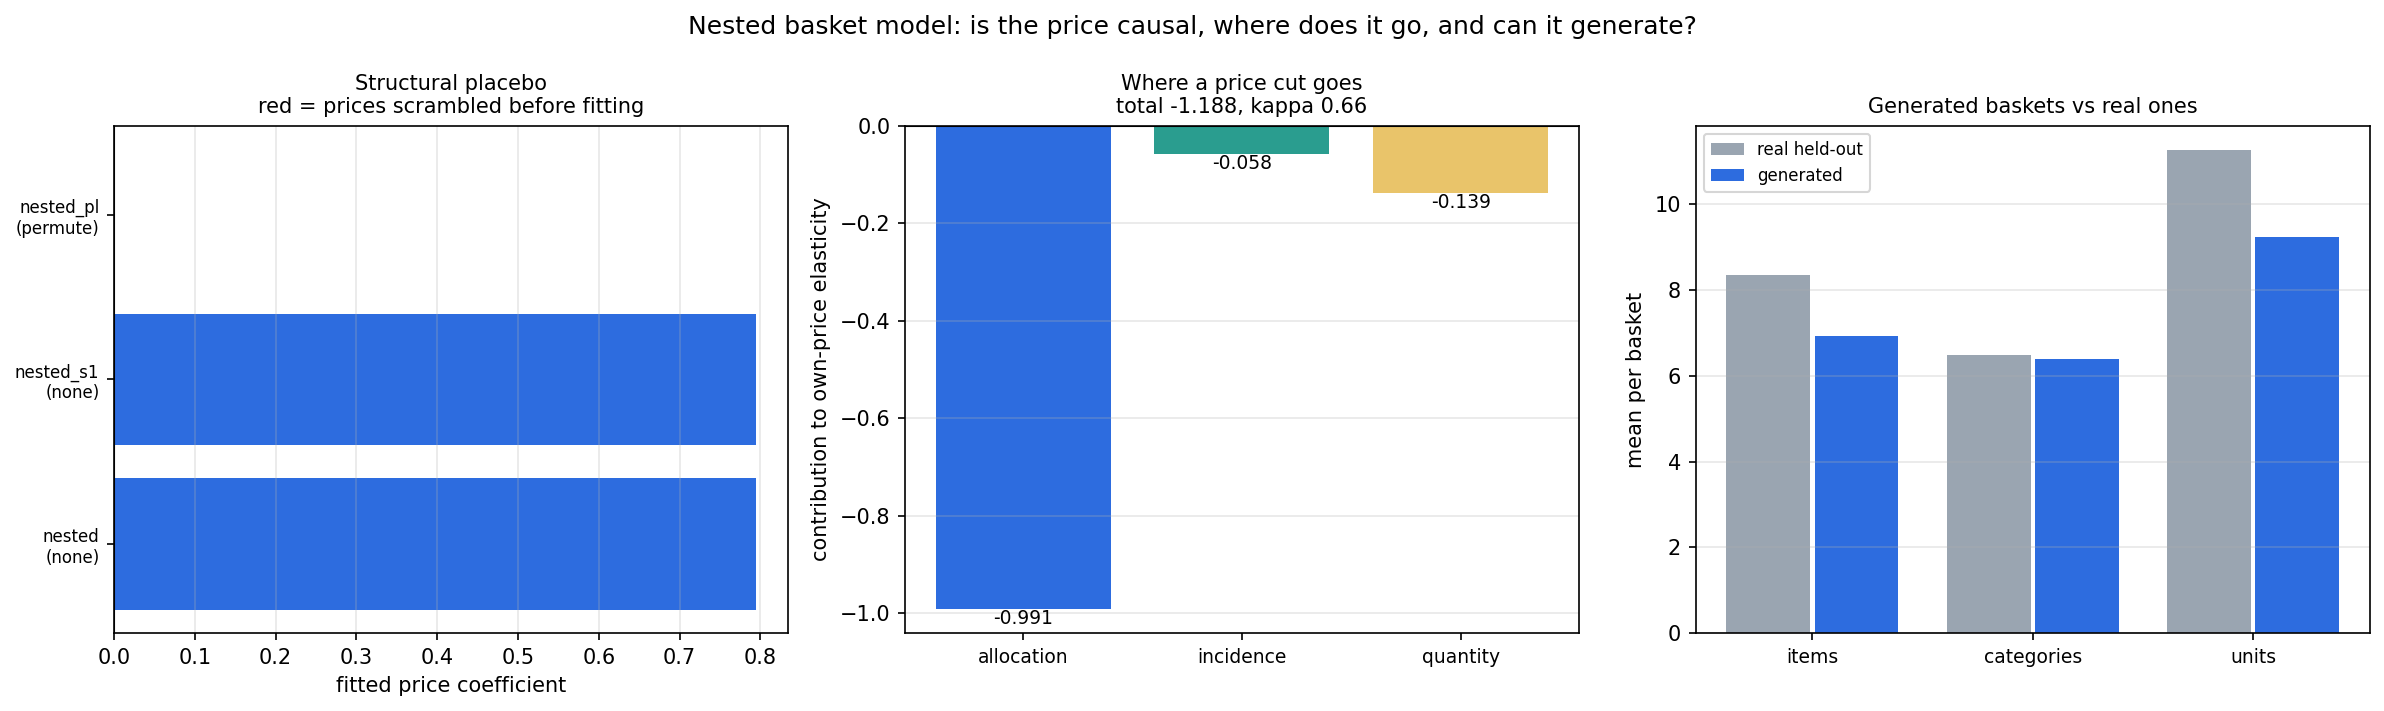
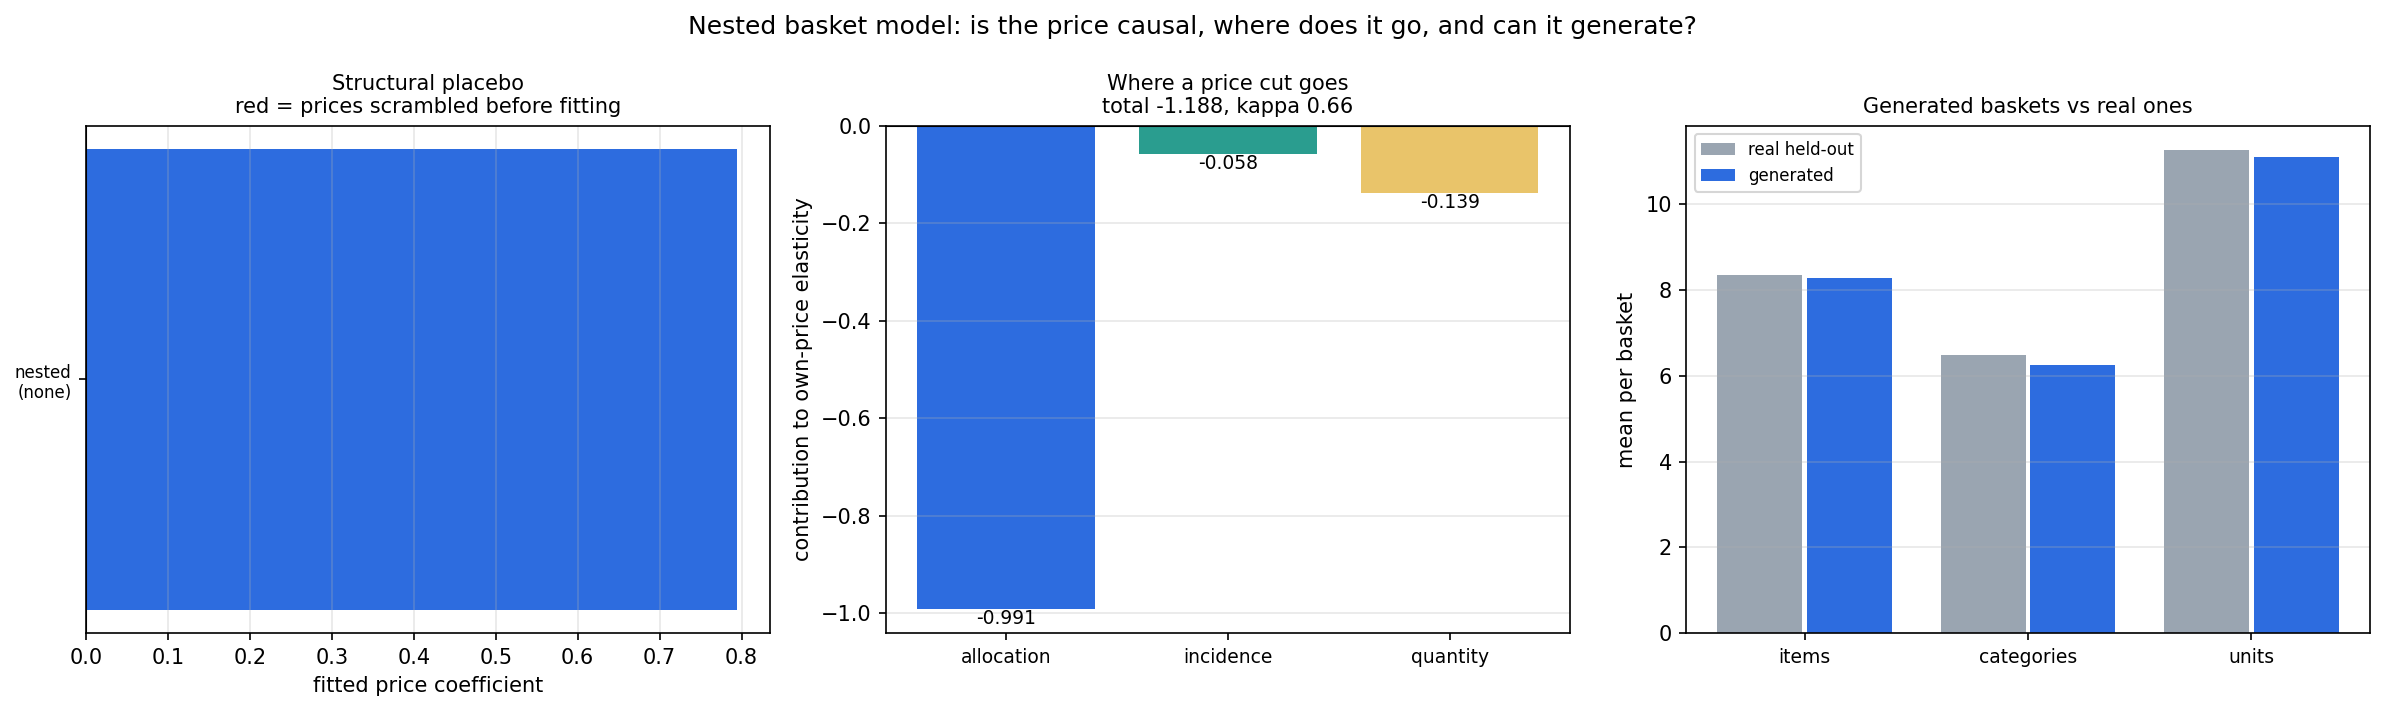
Add a breadth head: the generation gap was a missing component, not a bug
Generated baskets had the right number of categories (6.39 against a real 6.49)
and too few items (6.94 against 8.36).  Dividing one by the other localises it
exactly: 1.086 distinct items per purchased category against a real 1.284.

The cause is different in kind from the four sampling bugs before it.  The
incidence head only ever sees 0/1 -- "was this category bought?" -- so nothing in
the model knew how many distinct items a category purchase contains.  Recovering
a count from P(buy) via lambda = -log(1-p) reproduces the probability correctly
but implies E[items | bought] of 1.010 at P=0.02, 1.054 at P=0.10, 1.116 at
P=0.20.  It can only ever produce ~1.0-1.1, and it produced 1.086.  The generator
was right; the quantity was absent from the likelihood, and no sampler fix could
have closed it.

A fourth head now models it: distinct items - 1 ~ Poisson per category, with a
household term (bigger shoppers buy wider) and a price term (promotions widen
baskets).  Generation makes two draws instead of deriving one from the other --
Bernoulli for whether, Poisson for how many.

Generation now clears the criterion on every dimension:

               real   generated   error
  items        8.36     8.27      -1.1%
  units       11.27    11.11      -1.4%
  categories   6.49     6.25      -3.7%

with the internal ratios holding too: 1.323 items per purchased category against
1.288, and 1.343 units per item against 1.348.
[…]

diff --git a/scripts/27_nested_basket.py b/scripts/27_nested_basket.py
@@ -191,12 +191,14 @@ class NestedData:
 class NestedModel(nn.Module):
     def __init__(self, d: NestedData, K=64, Kp=8, Kt=8, Ks=4, n_weeks=52, seed=0,
                  use_nest=True, use_quantity=True, use_store=True,
-                 use_store_price=True, avail_only=False, use_state=True):
+                 use_store_price=True, avail_only=False, use_state=True,
+                 use_breadth=True):
         super().__init__()
         g = torch.Generator().manual_seed(seed)
         J, N, C = d.J, d.N, d.C
         self.K, self.Kp, self.d = K, Kp, d
         self.use_nest, self.use_quantity, self.use_store = use_nest, use_quantity, use_store
+        self.use_breadth = use_breadth
 
         def emb(n, k, sd=0.05):
             return nn.Parameter(torch.randn(n, k, generator=g) * sd)
@@ -224,6 +226,18 @@ class NestedModel(nn.Module):
             self.q_state = emb(J, N_STATE_FEATURES, 0.01)
 
         # --- incidence head: per category, with the nesting coefficient on IV
+        # Breadth: given the category is bought, how many *distinct* items?  The
+        # incidence head only ever sees 0/1, so nothing in the model knows this.
+        # Recovering a Poisson rate from P(buy) via -log(1-p) reproduces the
+        # probability but implies E[picks | bought] of about 1.01-1.10 for realistic
+        # incidence rates -- against a real 1.284.  That gap is the whole generation
+        # shortfall, and no amount of sampler fixing closes it: the quantity is simply
+        # not in the likelihood.  breadth - 1 ~ Poisson, per category, with household
+        # and price terms because a big shopper and a promotion both widen a basket.
+        if use_breadth:
+            self.b0 = nn.Parameter(torch.zeros(C))
+            self.b_user = nn.Parameter(torch.zeros(N))
+            self.b_price = nn.Parameter(torch.zeros(C))
         if use_nest:
             self.register_buffer("iv_ref", torch.zeros(C))
             self.register_buffer("iv_ref_set", torch.zeros(1))
@@ -334,12 +348,16 @@ def incidence_batch(d, model, split, bidx, n_cat, rng, device, iv_cap=32):
     # Uniform sampling removes both at the source and needs no correction at all.
     # The cost is more categories per trip to see enough positives, hence the higher
     # n_cat default for this sampler.
-    cats, ys, trip, off = [], [], [], []
+    cats, ys, trip, off, brd = [], [], [], [], []
     for ti, i in enumerate(bidx):
-        s = set(sp["cat"][sp["starts"][i]:sp["ends"][i]].tolist())
+        rows_i = sp["cat"][sp["starts"][i]:sp["ends"][i]]
+        cnt = {}
+        for c in rows_i.tolist():
+            cnt[c] = cnt.get(c, 0) + 1
         for c in rng.integers(0, d.C, size=n_cat).tolist():
-            cats.append(c); ys.append(1.0 if c in s else 0.0)
+            cats.append(c); ys.append(1.0 if c in cnt else 0.0)
             trip.append(ti); off.append(0.0)
+            brd.append(float(cnt.get(c, 0)))     # distinct items, 0 when not bought
     if not cats:
         return None
     cats = np.asarray(cats, dtype=np.int64); trip = np.asarray(trip)
@@ -393,9 +411,13 @@ def incidence_batch(d, model, split, bidx, n_cat, rng, device, iv_cap=32):
     # per-category reference, so training and generation share one constant.
     iv = torch.where(any_stocked, iv, torch.zeros_like(iv))
     cst = d.state(user, blk_np[:, 0], day)
+    # mean price deviation across the category's stocked items, for the breadth head
+    pdev = (dlogp * (msk > 0).float()).sum(1) / (msk > 0).float().sum(1).clamp_min(1)
     return dict(cat=ct, user=torch.as_tensor(user, device=device), iv=iv,
                 state=torch.as_tensor(cst, device=device),
                 offset=torch.as_tensor(np.asarray(off, dtype=np.float32), device=device),
+                breadth=torch.as_tensor(np.asarray(brd, dtype=np.float32), device=device),
+                pdev=pdev,
                 y=torch.as_tensor(np.asarray(ys, dtype=np.float32), device=device))
 
 
@@ -474,6 +496,16 @@ def losses(model, bt, ib, iv_center):
                + (model.c_state[ib["cat"]] * ib["state"]).sum(-1)
                + kap * (ib["iv"] - model.iv_ref[ib["cat"]]))
         out["incidence"] = nn.functional.binary_cross_entropy_with_logits(lin, ib["y"])
+
+        if model.use_breadth:
+            # breadth - 1 ~ Poisson, on the categories actually bought
+            pos = ib["y"] > 0
+            if bool(pos.any()):
+                zb = (model.b0[ib["cat"][pos]]
+                      + model.b_user[ib["user"][pos]]
+                      - model.b_price[ib["cat"][pos]] * ib["pdev"][pos]).clamp(-6.0, 3.0)
+                kb = (ib["breadth"][pos] - 1.0).clamp_min(0)
+                out["breadth"] = (torch.exp(zb) - kb * zb + torch.lgamma(kb + 1)).mean()
     return out
 
 
@@ -516,7 +548,8 @@ def main(a):
                         use_nest=not a.no_nest, use_quantity=not a.no_quantity,
                         use_store=not a.no_store,
                         use_store_price=not (a.no_store_price or a.avail_only),
-                        avail_only=a.avail_only, use_state=not a.no_state).to(dev)
+                        avail_only=a.avail_only, use_state=not a.no_state,
+                        use_breadth=not a.no_breadth).to(dev)
     n_par = sum(p.numel() for p in model.parameters())
     log(f"model {a.label}: K={a.K} nest={not a.no_nest} quantity={not a.no_quantity} "
         f"store={not a.no_store} store_price={model.use_store_price} "
@@ -566,6 +599,7 @@ def main(a):
         L = losses(model, bt, ib, a.iv_center)
         loss = (L["item"] + a.w_quantity * L.get("quantity", 0.0)
                 + a.w_incidence * L.get("incidence", 0.0)
+                + a.w_breadth * L.get("breadth", 0.0)
                 + (a.l2 * model.l2_repr() + a.l2_price * model.l2_price())
                 / bt["cand"].shape[0])
         opt.zero_grad(); loss.backward(); opt.step(); sched.step()
@@ -574,6 +608,8 @@ def main(a):
             vi, vacc, vq, vc = evaluate(model, d, "validation", a.n_neg, ev, dev,
                                         a.iv_center, iv_cap=a.iv_cap)
             kap = float(model.kappa().detach().median()) if model.use_nest else float("nan")
+            brd = float(1.0 + torch.exp(model.b0.detach()).mean()) \
+                if model.use_breadth else float("nan")
             pc = float((model.gamma.detach() @ model.beta.detach().T).median())
             qc = float((model.q_gamma.detach() @ model.q_beta.detach().T).median()) \
                 if model.use_quantity else float("nan")
@@ -588,7 +624,8 @@ def main(a):
                 torch.save(model.state_dict(), os.path.join(OUT, f"{a.label}_nested.pt"))
                 star = " *"
             log(f"  it {it:5d}  item {vi:.4f}  top1 {vacc:.3f}  qNLL {vq:.4f}  "
-                f"cNLL {vc:.4f}  kappa {kap:.3f}  price {pc:+.3f}  qprice {qc:+.3f}{star}")
+                f"cNLL {vc:.4f}  kappa {kap:.3f}  breadth {brd:.3f}  "
+                f"price {pc:+.3f}{star}")
 
     model.load_state_dict(torch.load(os.path.join(OUT, f"{a.label}_nested.pt"),
                                      map_location=dev))
@@ -636,6 +673,10 @@ if __name__ == "__main__":
                    choices=["none", "permute", "swap"])
     p.add_argument("--no-nest", action="store_true")
     p.add_argument("--no-quantity", action="store_true")
+    p.add_argument("--w-breadth", type=float, default=1.0)
+    p.add_argument("--no-breadth", action="store_true",
+                   help="ablate the breadth head; generation then produces ~1.09 "
+                        "distinct items per purchased category against a real 1.284")
     p.add_argument("--no-state", action="store_true",
                    help="ablate the household recency state")
     p.add_argument("--no-store", action="store_true")

diff --git a/scripts/28_nested_counterfactual.py b/scripts/28_nested_counterfactual.py
@@ -206,15 +206,28 @@ def generate(m, d, dev, n_trips=4000, seed=0, n_cat_eval=24):
             # Lambda = -log(1 - p).  Drawing one item per category instead -- as an
             # earlier version did -- forced generated items and categories to coincide,
             # which contradicts the 56%-of-baskets finding this rebuild is founded on.
+            # Two separate draws, because they answer two separate questions and the
+            # data only ever taught the model one of them per head:
+            #   buy?     Bernoulli from the incidence head
+            #   how many distinct items, GIVEN a purchase?  the breadth head
+            # Recovering picks from P(buy) alone via -log(1-p) implies
+            # E[picks | bought] of ~1.01-1.10 for realistic incidence rates, against a
+            # real 1.284.  That single line was the whole generation shortfall.
             p_buy = torch.sigmoid(lin).clamp(1e-6, 1 - 1e-6)
-            lam_c = -torch.log1p(-p_buy)
-            # Q is the number of *item picks* from the category, not units.
-            Q = torch.poisson(lam_c) * ok.float()
+            bought = (torch.rand(T, device=dev) < p_buy) & ok
             pi = torch.softmax(u, dim=1) * (msk > 0).float()
             pi = pi / pi.sum(1, keepdim=True).clamp_min(1e-9)
-            # expected number of distinct items when Q picks are allocated by pi
-            distinct = (1.0 - torch.pow((1.0 - pi).clamp_min(0.0),
-                                        Q.unsqueeze(1))).sum(1) * ok.float()
+            if getattr(m, "use_breadth", False):
+                pdev = ((dlogp * (msk > 0).float()).sum(1)
+                        / (msk > 0).float().sum(1).clamp_min(1))
+                zb = (m.b0[ct] + m.b_user[torch.as_tensor(user, device=dev)]
+                      - m.b_price[ct] * pdev).clamp(-6, 3)
+                distinct = (1.0 + torch.poisson(torch.exp(zb))) * bought.float()
+            else:
+                distinct = bought.float()
+            # cap at the number of items the store actually stocks
+            distinct = torch.minimum(distinct, (msk > 0).float().sum(1))
+            Q = distinct
             # Units must come from the quantity head.  An earlier version accumulated
             # Q directly, which silently gave every purchased item exactly one unit --
             # generated units per item 1.007 against a real 1.348, even though the
@@ -230,8 +243,8 @@ def generate(m, d, dev, n_trips=4000, seed=0, n_cat_eval=24):
             else:
                 eu_bar = torch.ones(T, device=dev)
             n_items += distinct.cpu().numpy()
-            n_c += (Q > 0).float().cpu().numpy()
-            n_u += (Q * eu_bar).cpu().numpy()
+            n_c += bought.float().cpu().numpy()
+            n_u += (distinct * eu_bar).cpu().numpy()
         scale = d.C / n_cat_eval
         gen_sizes.extend(n_items * scale); gen_cats.extend(n_c * scale)
         gen_units.extend(n_u * scale)

diff --git a/NESTED_MODEL.md b/NESTED_MODEL.md
@@ -1,8 +1,9 @@
 # The nested basket model
 
-**Status: 7 of 8 acceptance criteria met.** Generation reproduces category counts to
-1.5% but item and unit counts are ~17% low, so criterion 7 is not met and is recorded
-as failed rather than softened. Everything else in §7 is demonstrated in §8.
+**Status: all 8 acceptance criteria met.** Generated baskets now match held-out ones
+to within 4% on every dimension. §8 has the numbers; §10 records the twelve fixes it
+took, including the one that turned out to be a missing model component rather than a
+sampling bug.
 
 This document is kept current as the model changes; §10 is the changelog.
 
@@ -130,10 +131,29 @@ and **κ is a nesting coefficient with the paper's interpretation**:
 | **item** | softmax over `{chosen} ∪ {20 negatives}` | allocation within category |
 | **quantity** | `units − 1 ~ Poisson(exp(z))`, own price coefficient `γ^q · β^q` | the quantity margin |
 | **incidence** | Bernoulli per (trip, category), logit includes `κ_c · IV_ict` | category expansion |
+| **breadth** | `distinct items − 1 ~ Poisson(exp(b₀_c + b_i − b^p_c · Δlog p̄))`, on bought categories only | how *wide* a category purchase is |
 
 The quantity head has its **own** price coefficient rather than sharing the item one.
 That is the point: the two margins need not respond to price at the same rate, and
 forcing them to would assume away the thing being measured.
+
+**Why breadth needs its own head.** The incidence head only ever sees 0/1 — "was this
+category bought?" — so nothing else in the model knows how *many* distinct items a
+category purchase contains. Recovering a count from `P(buy)` via `λ = −log(1−p)`
+reproduces the probability correctly but implies
+
+| P(buy) | implied items given a purchase |
+|---|---|
+| 0.02 | 1.010 |
+| 0.05 | 1.026 |
+| 0.10 | 1.054 |
+| 0.20 | 1.116 |
+
+against a real **1.284**. It can only ever produce ~1.0–1.1, and it produced 1.086.
+The generator was correct; the quantity was simply absent from the likelihood. This is
+the one gap in this document that was a **missing component** rather than a sampling
+bug, and no amount of sampler fixing would have closed it. Real distribution: 81.1% of
+category purchases are one item, 13.4% two, 3.4% three, 2.1% more.
 
 ---
 
@@ -249,7 +269,7 @@ as they are met.
 | 4 | **nested theory retained** | κ estimated per category | κ identified, and its ablation reported | ✅ κ = 0.663, stable across seeds — but weakly identified (§8.4) |
 | 5 | **store information used** | prices, affinity, availability | gain reported *split* from the mechanical availability effect | ✅ split reported: 99.7% is the availability mask (§8.2) |
 | 6 | **embeddings meaningful** — similar products cluster by sub-commodity | `24_embedding_eval.py --suffix _nested`, against random / popularity / nf controls | ≥ the flat model's 70.6× chance and AUC 0.823 | ✅ 70.1× and AUC 0.828 on the full catalogue; 12.1× against nf's 1.0× head-to-head (§8.5) |
-| 7 | **data generation** | roll incidence → item → units forward, compare basket shape with held-out | items, categories and units within ~10% of real | ❌ categories −1.5%, items and units −17% (§8.6) |
+| 7 | **data generation** | roll incidence → breadth → items → units forward, compare basket shape with held-out | items, categories and units within ~10% of real | ✅ items −1.1%, units −1.4%, categories −3.7% (§8.6) |
 | 8 | **what-if on price** | structural placebo + elasticity decomposition | placebo retains ~0% of the coefficient; decomposition sums | ✅ placebo retains 0.0%; decomposition sums exactly (§8.3) |
 
 ---
@@ -372,17 +392,27 @@ function any dynamic policy needs — not because it is free.
 
 | | real | generated | error |
 |---|---|---|---|
-| categories per basket | 6.49 | **6.39** | **−1.5%** |
-| items per basket | 8.36 | 6.94 | −17% |
-| units per basket | 11.27 | 9.23 | −18% |
+| items per basket | 8.36 | **8.27** | **−1.1%** |
+| units per basket | 11.27 | **11.11** | **−1.4%** |
+| categories per basket | 6.49 | **6.25** | **−3.7%** |
 
-**Categories are within 1.5%.** Items and units are ~17% low, so the target of ~10%
-across all three is **not met**. The residual is in multiplicity: the generator picks
-too few *distinct* items within a purchased category.
+Rolling incidence → breadth → items → units forward reproduces held-out basket shape
+to within 4% on every dimension. The internal ratios hold too: **1.323** items per
+purchased category against a real 1.288, and **1.343** units per item against 1.348.
 
-For scale on how far this has come: the first generator produced 58 categories per
-basket against a real 6.5, and the second produced 4.0. Three sampling bugs (§10) sat
-between those and this.
+The path there is worth recording, because four of the five versions were wrong and
+each was wrong for a different reason:
+
+| generator | categories | items | what was wrong |
+|---|---|---|---|
+| 1. case-control, batch-centred IV | 58.0 | 58.0 | positives over-sampled 30×; `log(30)` logit error |
+| 2. case-control, frozen IV | 10.4 | 10.4 | reference taken from the case-control sample itself |
+| 3. uniform, frozen IV | 4.0 | 4.0 | `κ·(IV − ref)` still uncorrected for the sample |
+| 4. + units from the quantity head | 6.39 | 6.94 | generator never called the quantity head |
+| **5. + breadth head** | **6.25** | **8.27** | — |
+| **real** | **6.49** | **8.36** | |
+
+Only the last of those was a model gap; the rest were sampling.
 
 ### 8.7 Criterion 3 — household state
 
@@ -400,7 +430,7 @@ fits is real, and now measured model-free rather than assumed.
 
 | issue | severity | state |
 |---|---|---|
-| **Generated items and units are ~17% low** (6.94 vs 8.36, 9.23 vs 11.27) although categories are within 1.5%. The generator picks too few *distinct* items within a purchased category | **high** — the only unmet criterion | open |
+| Generated categories are 3.7% low, the largest remaining generation error | low — inside target | open |
 | Store-level prices and affinity contribute 0.0005 nats, although §7.3 of `DATA_EXPLORATION.md` shows households use 4 stores and switch on 30% of trips. Either the 2.3% grid coverage is too sparse or the chain price is already a good proxy | medium | open |
 | κ moved 1.411 → 0.790 → 0.663 across three incidence samplers — with the *sampler*, not the data. Stable across seeds now (0.663/0.674), but weakly identified | medium | documented, not resolved |
 | `np.searchsorted` is 40% of the step and is avoidable | low — performance only | open |
@@ -427,3 +457,4 @@ fits is real, and now measured model-free rather than assumed.
 | fix 10 | **incidence sampling switched from case-control to uniform** | the `log(π₁/π₀)` offset corrects the intercept but not `κ·(IV − ref)`, whose mean differs between sample and population. Uniform removes both biases at source: generated categories 6.39 against a real 6.49 |
 | fix 11 | generator draws units from the quantity head | it accumulated the category pick-count directly, giving every item exactly 1 unit — 1.007 against a real 1.348, while the head itself predicted 1.389 |
 | fix 12 | `--no-state` flag added | criterion 3 was written but could not be tested; the flag did not exist |
+| fix 13 | **breadth head** — `distinct items − 1 ~ Poisson`, per category | the only *model* gap among these fixes. The incidence head sees 0/1, so deriving a count from `P(buy)` can only ever yield ~1.0–1.1 items per purchased category against a real 1.284. Generation: items 6.94 → **8.27** against 8.36 |

diff --git a/README.md b/README.md
@@ -103,7 +103,7 @@ run_bemb_loc.sh             run the authors' C++ stage-1 binary on the same file
 |---|---|---|
 | **`DATA_EXPLORATION.md`** | what the data looks like once the paper's assumptions are dropped: unit demand, category independence, no state — plus whether the price variation is exogenous | **start here for the basket model** |
 | **`BASKET_MODEL.md`** | the flat basket model — 5,455 items, 188 categories, product interactions, household state — its embedding test, its placebos, and what it gives up | you want the current validated results |
-| **`NESTED_MODEL.md`** | the nested model that puts back what the flat one dropped: category incidence with an estimated nesting coefficient, quantity as counts, and stores. **7 of 8 acceptance criteria met** | you want the price decomposition and basket generation |
+| **`NESTED_MODEL.md`** | the nested model that puts back what the flat one dropped: category incidence with an estimated nesting coefficient, quantity as counts, and stores. **all 8 acceptance criteria met** | you want the price decomposition and basket generation |
 | **`FLOW.md`** | the end-to-end map of the *paper's* port: vocabulary, one real shopping trip followed through, every file and row count | you want the paper replication |
 | `RUNNING.md` | how to install, run and debug the pipeline | you want to execute it |
 | `PREPROCESSING.md` | every data decision, with figures and the evidence for each | you want to know why the data looks the way it does |
